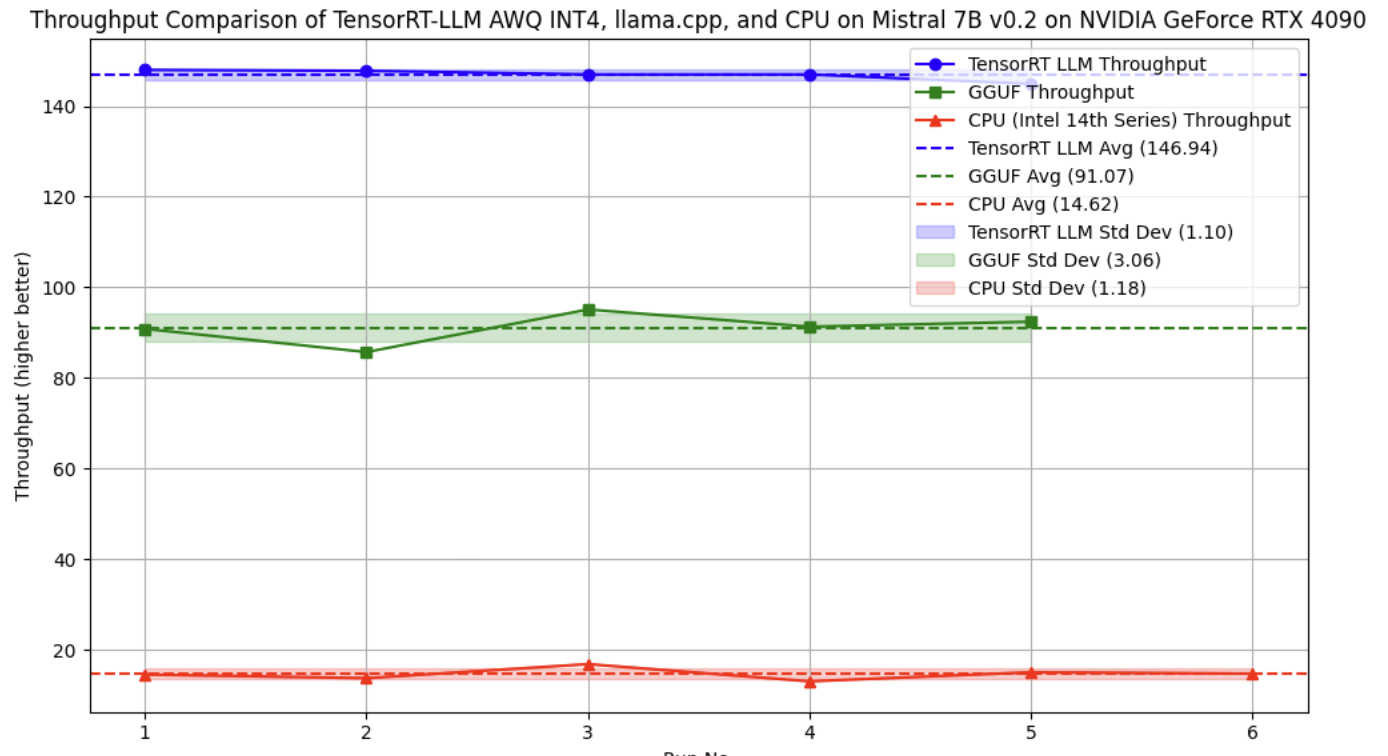
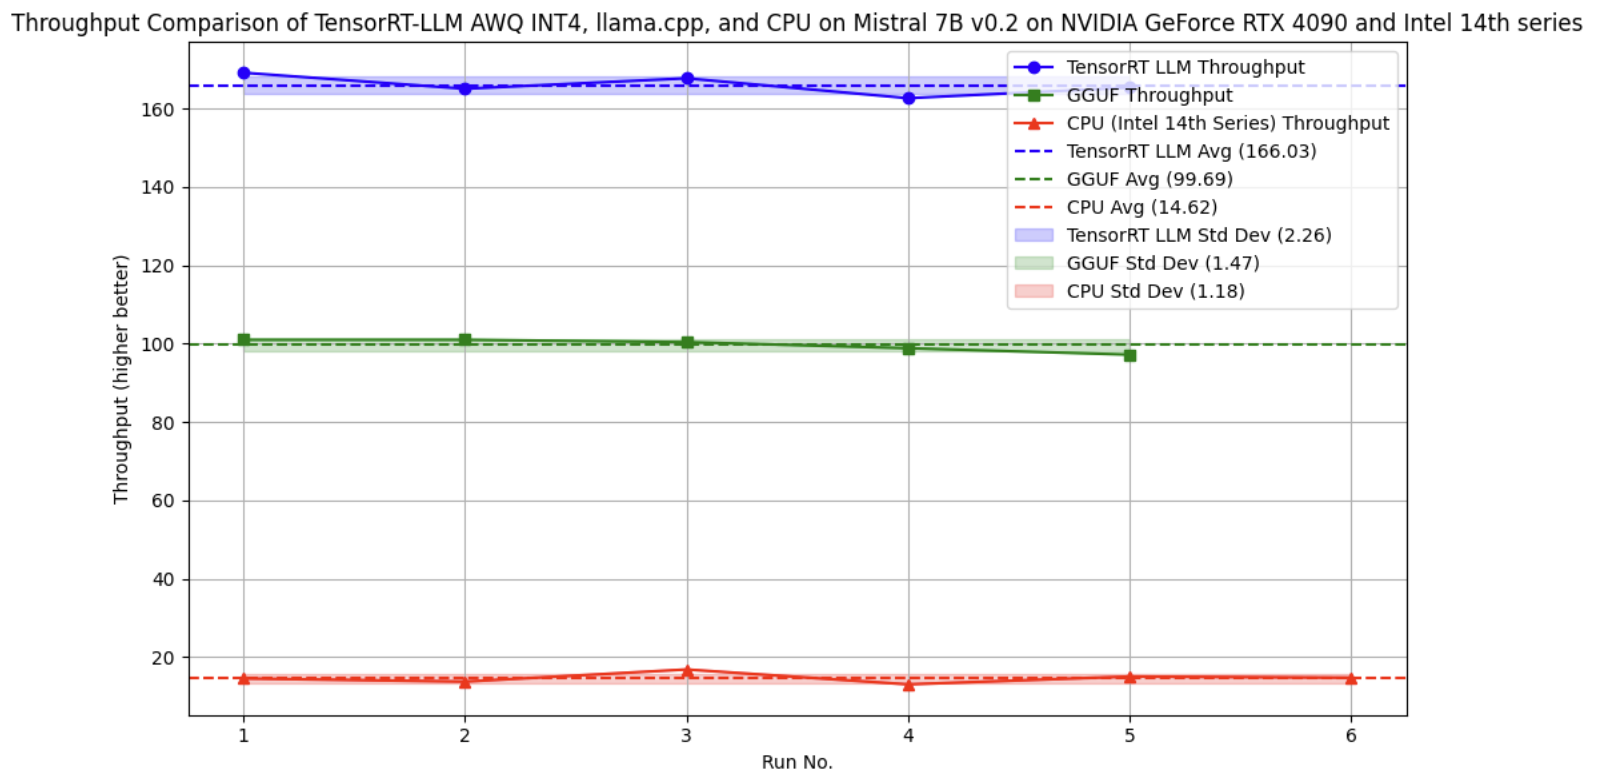
chore: Update nits and number

diff --git a/blog/2024-03-19-TensorRT-LLM.md b/blog/2024-03-19-TensorRT-LLM.md
@@ -100,13 +100,13 @@ Nvidia's RTX-4090 is their top-of-the-line consumer GPU, and retails for [approx
 
 | Metrics              | GGUF (using CPU) | GGUF (using GPU) | TensorRT-LLM | Difference on GPU |
 | -------------------- | ---------------- | ---------------- | ------------ | ----------------- |
-| Throughput (token/s) | 11.42            | 101.3            | 159          | ✅ 57% faster     |
+| Throughput (token/s) | 14.0             | 99.69            | 166.9        | ✅ 57% faster     |
 | VRAM Used (GB)       | 0                | 5.5              | 6.3          | 🤔 14% more       |
 | RAM Used (GB)        | 0.611            | 0.54             | 0.42         | 🤯 20% less       |
 | Disk Size (GB)       | 4.07             | 4.07             | 3.66         | 🤯 10% smaller    |
 
 Here is the illustration
-![alt text](./images/3090_benchmark_mistral_7b_int4.png)
+![alt text](./images/4090_benchmark_mistral_7b_int4.png)
 
 ### RTX-3090 Desktop
 
@@ -123,16 +123,16 @@ Here is the illustration
 
 | Metrics              | GGUF (using CPU) | GGUF (using GPU) | TensorRT-LLM | Difference on GPU |
 | -------------------- | ---------------- | ---------------- | ------------ | ----------------- |
-| Throughput (token/s) | 14.0             | 90               | 140.27       | ✅ 55% faster     |
+| Throughput (token/s) | 11.42            | 90               | 140.27       | ✅ 55% faster     |
 | VRAM Used (GB)       | 0                | 6.0              | 6.8          | 🤔 13% more       |
 | RAM Used (GB)        | 0.611            | 0.54             | 0.42         | 🤯 22% less       |
 | Disk Size (GB)       | 4.07             | 4.07             | 3.66         | 🤯 10% smaller    |
 
-![alt text](./images/4090_benchmark_mistral_7b_int4.png)
+![alt text](./images/3090_benchmark_mistral_7b_int4.png)
 
 ## Conclusion
 
-- LLM inference is possible on CPU, but you get 10x performance with NVIDIA GPU
+- LLM inference is possible on CPU, but you get 10x performance with NVIDIA GPU.
 - On NVIDIA GeForce RTX and 7B model at INT4, TensorRT-LLM yields ~55% faster compared to llama.cpp at the moment while using less RAM, VRAM and model disk size.
 - With 7B moel at INT4, NVIDIA GTX Geforce 4090 performs ~12% better compared to NVIDIA GTX Geforce 4090.
 - We also found out that the performance with TensorRT-LLM can increase around 15% if we enable [XMP](https://www.intel.com/content/www/us/en/gaming/extreme-memory-profile-xmp.html) in BIOS for RAM bus speed from 3600 to 5600.
